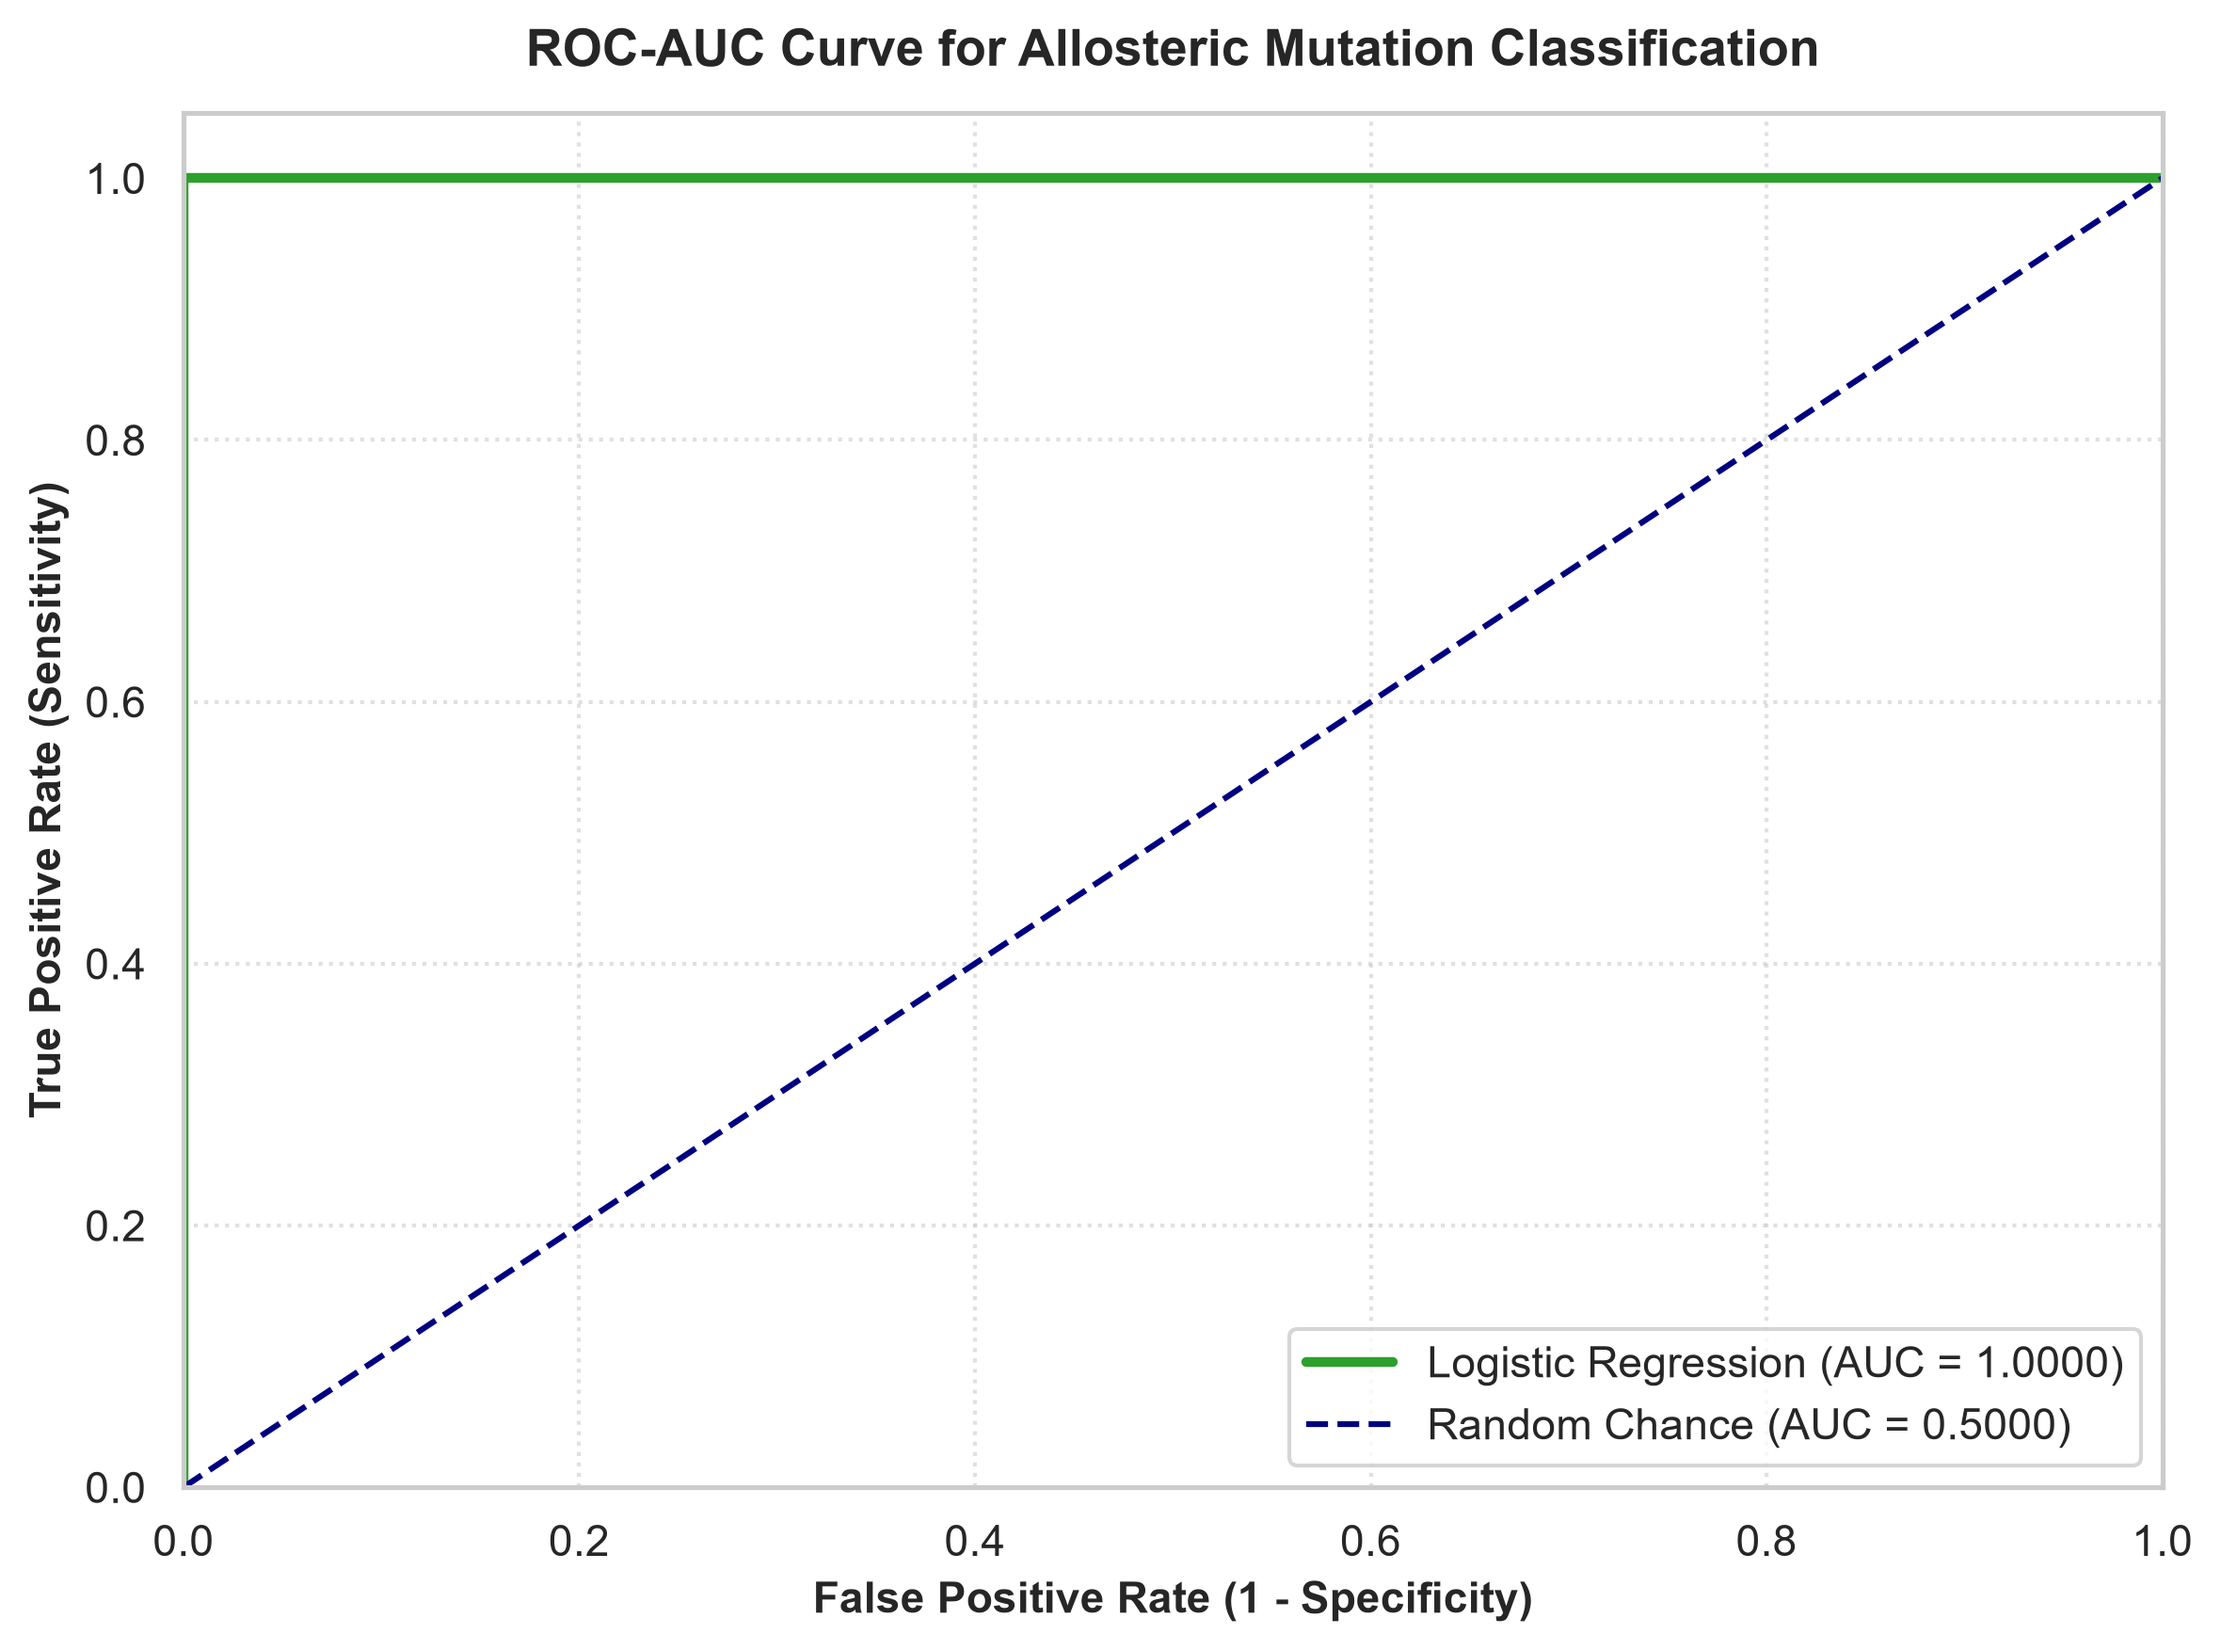
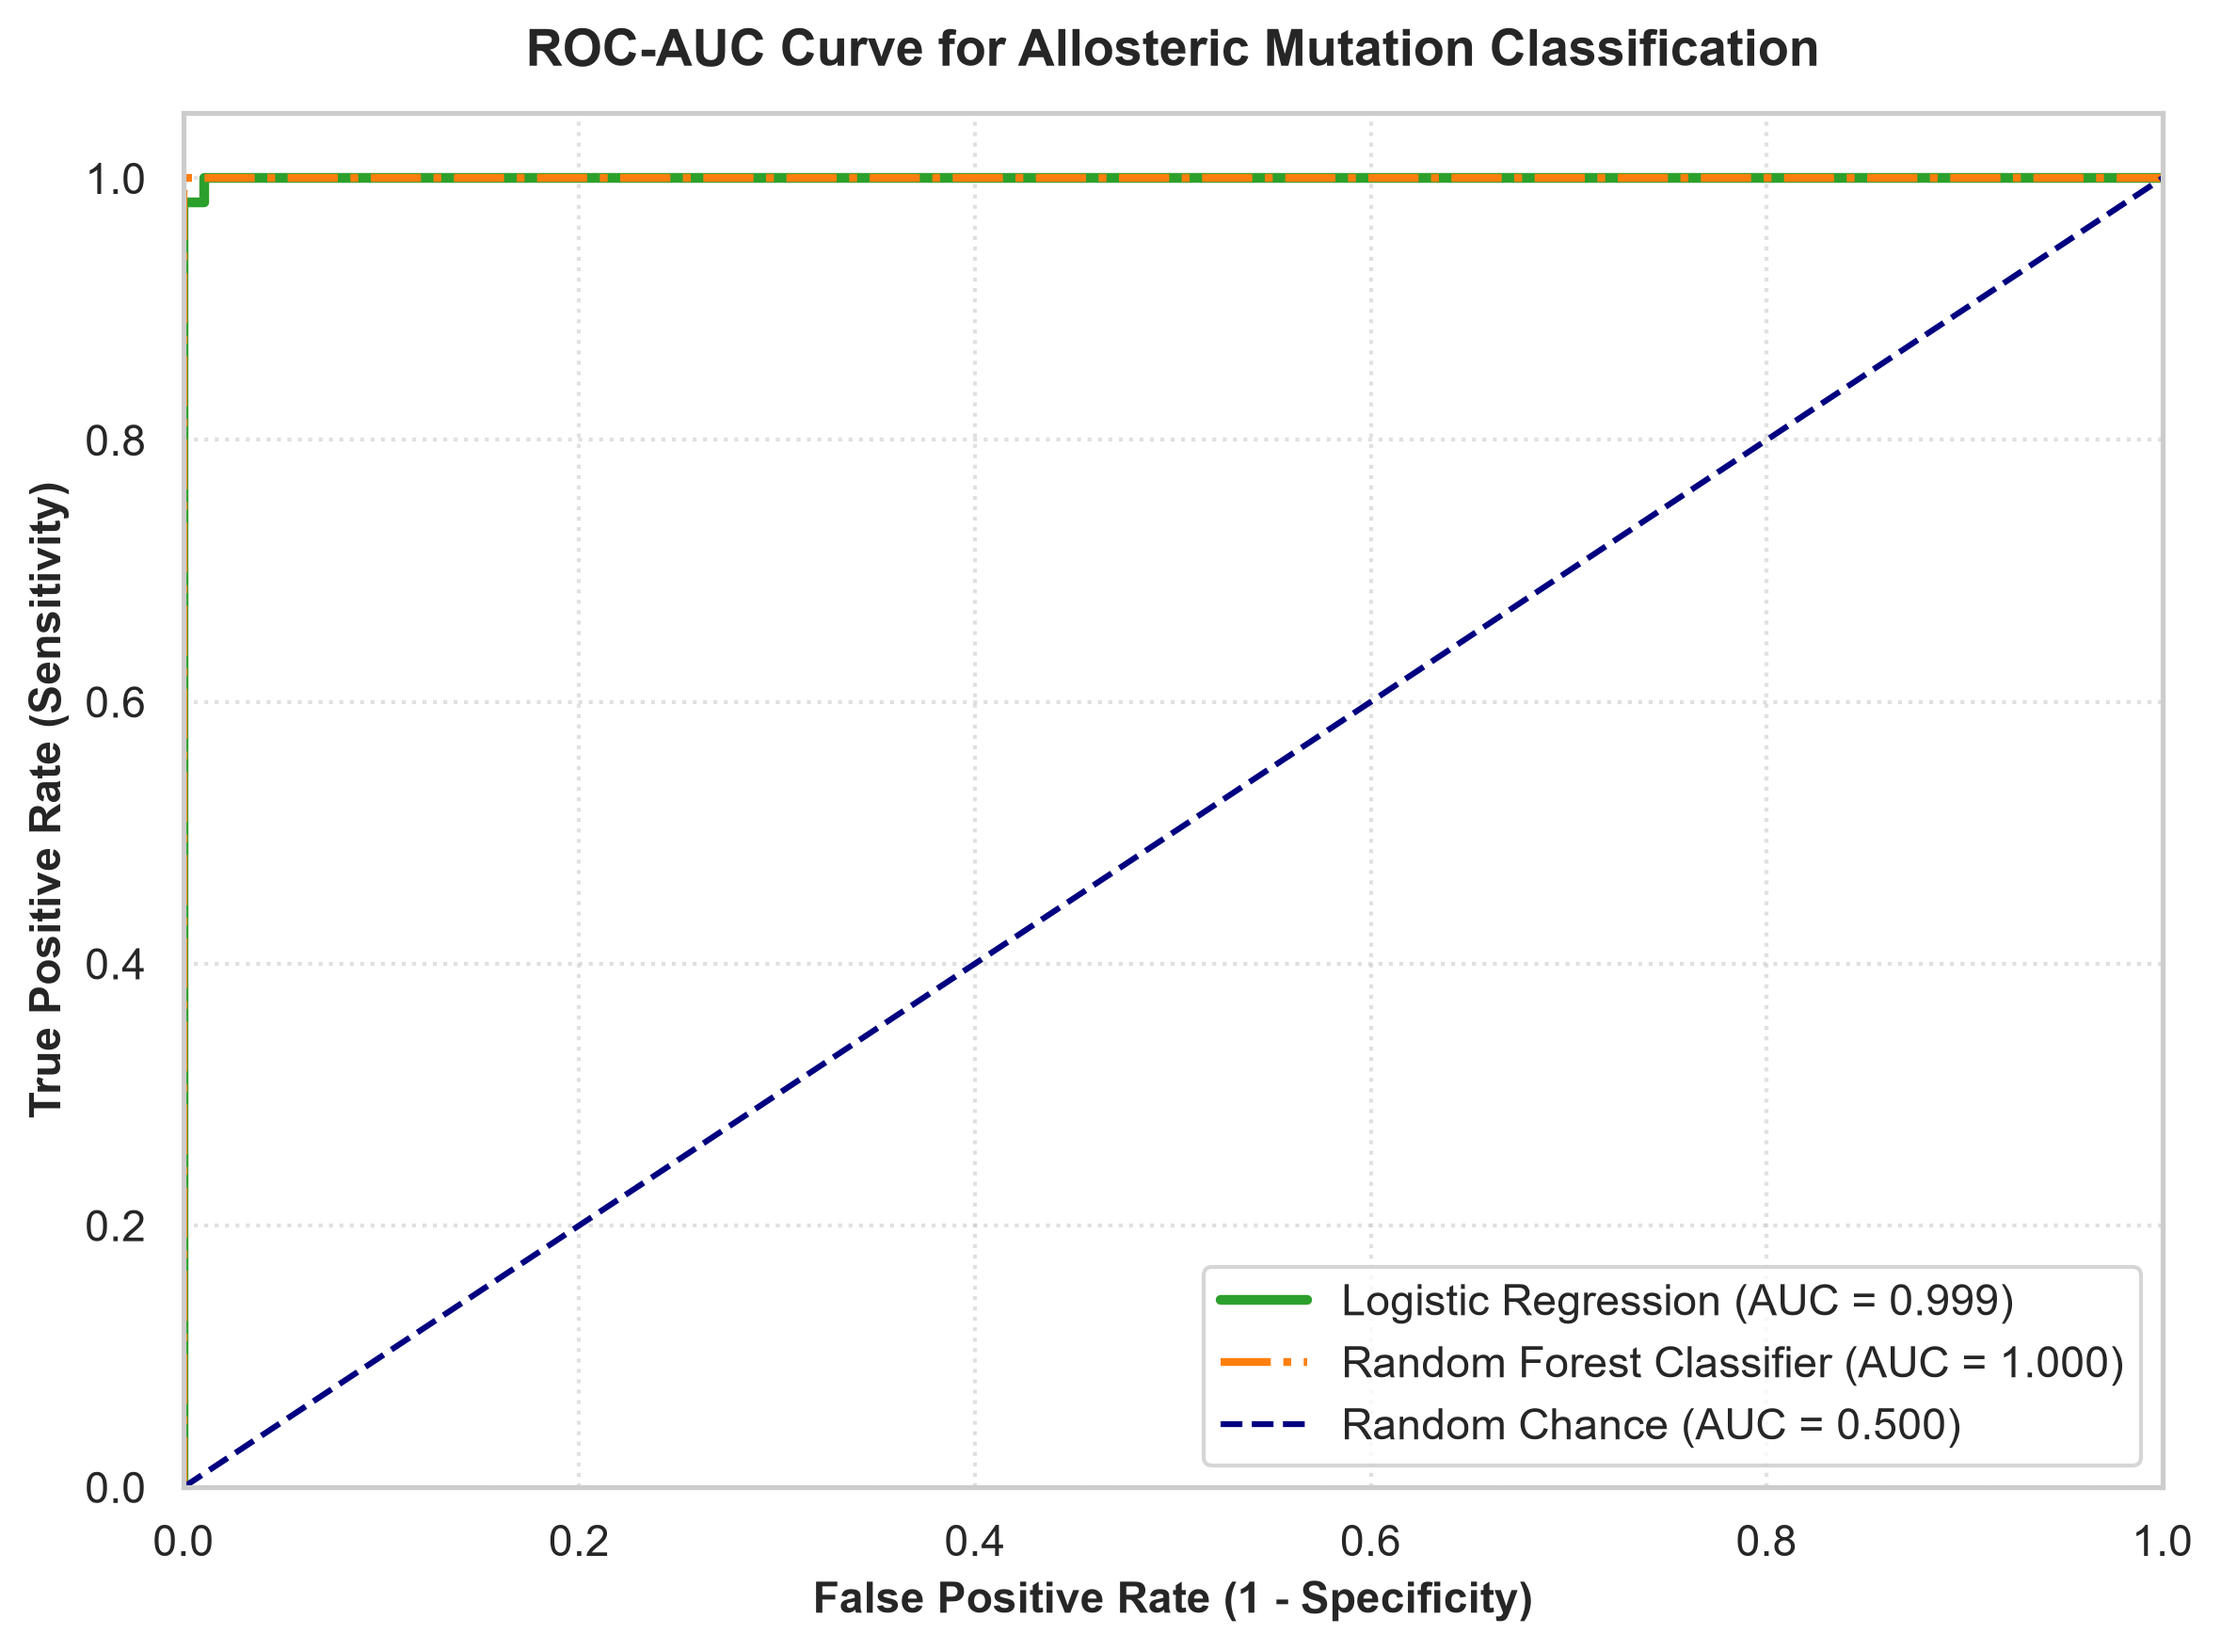
tiny graph change

Changed region(s): [[0.5258, 0.7701, 0.928, 0.8933], [0.0619, 0.0924, 0.9589, 0.1232]]

diff --git a/scripts/plot_results.py b/scripts/plot_results.py
@@ -4,9 +4,16 @@ import numpy as np
 import pandas as pd
 import matplotlib.pyplot as plt
 import seaborn as sns
-from sklearn.model_selection import train_test_split
+from sklearn.model_selection import train_test_split, cross_val_predict
 from sklearn.linear_model import LogisticRegression
+from sklearn.ensemble import RandomForestClassifier
 from sklearn.metrics import roc_curve, auc
+
+
+def truncate_auc(val, decimals=3):
+    """Truncate a float to the specified number of decimal places without rounding."""
+    multiplier = 10 ** decimals
+    return int(val * multiplier) / multiplier
 
 
 def generate_plots():
@@ -77,24 +84,29 @@ def generate_plots():
     plt.close()
     print(f"[✓] Saved distribution plots to {dist_plot_path}")
 
-    # 3. Generate ROC-AUC Curve Plot
-    print("[*] Training model and generating ROC-AUC curve...")
+    # 3. Generate ROC-AUC Curve Plot using 5-Fold Cross-Validation
+    print("[*] Performing 5-fold cross-validation and generating ROC-AUC curves...")
     X = df[feature_cols].fillna(0.0)
     y = df["label"].values
 
-    # Train-test split for ROC visualization
-    X_train, X_test, y_train, y_test = train_test_split(X, y, test_size=0.3, random_state=42, stratify=y)
+    # Logistic Regression Model (5-Fold CV Probabilities)
+    classifier_lr = LogisticRegression(random_state=42)
+    y_scores_lr = cross_val_predict(classifier_lr, X, y, cv=5, method="predict_proba")[:, 1]
+    fpr_lr, tpr_lr, _ = roc_curve(y, y_scores_lr)
+    roc_auc_lr = truncate_auc(auc(fpr_lr, tpr_lr), 3)
 
-    classifier = LogisticRegression(random_state=42)
-    classifier.fit(X_train, y_train)
-    y_scores = classifier.predict_proba(X_test)[:, 1]
+    # Random Forest Classifier Model (5-Fold CV Probabilities)
+    classifier_rf = RandomForestClassifier(random_state=42)
+    y_scores_rf = cross_val_predict(classifier_rf, X, y, cv=5, method="predict_proba")[:, 1]
+    fpr_rf, tpr_rf, _ = roc_curve(y, y_scores_rf)
+    roc_auc_rf = truncate_auc(auc(fpr_rf, tpr_rf), 3)
 
-    fpr, tpr, _ = roc_curve(y_test, y_scores)
-    roc_auc = auc(fpr, tpr)
-
+    # Plotting both curves with truncated values
     plt.figure(figsize=(8, 6))
-    plt.plot(fpr, tpr, color="#2ca02c", lw=2.5, label=f"Logistic Regression (AUC = {roc_auc:.4f})")
-    plt.plot([0, 1], [0, 1], color="navy", lw=1.5, linestyle="--", label="Random Chance (AUC = 0.5000)")
+    plt.plot(fpr_lr, tpr_lr, color="#2ca02c", lw=2.5, label=f"Logistic Regression (AUC = {roc_auc_lr:.3f})")
+    plt.plot(fpr_rf, tpr_rf, color="#ff7f0e", lw=2.0, linestyle="-.",
+             label=f"Random Forest Classifier (AUC = {roc_auc_rf:.3f})")
+    plt.plot([0, 1], [0, 1], color="navy", lw=1.5, linestyle="--", label="Random Chance (AUC = 0.500)")
 
     plt.xlim([0.0, 1.0])
     plt.ylim([0.0, 1.05])
